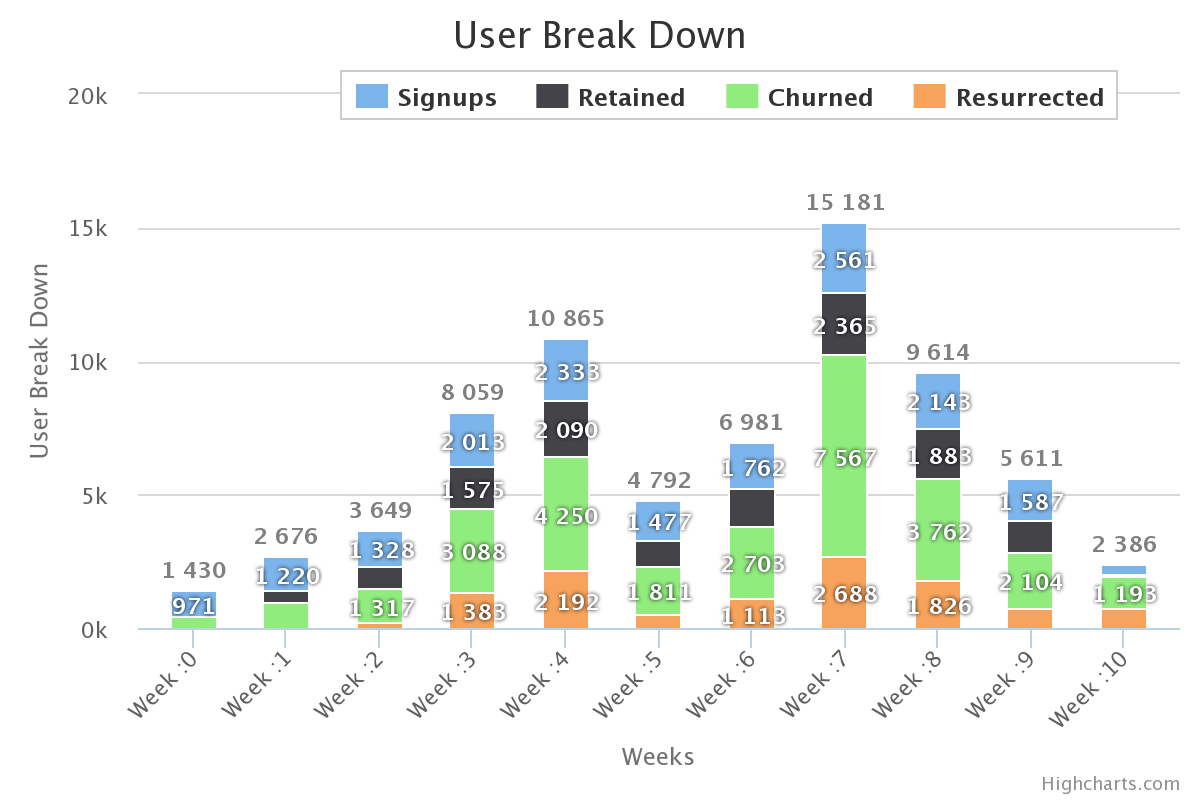
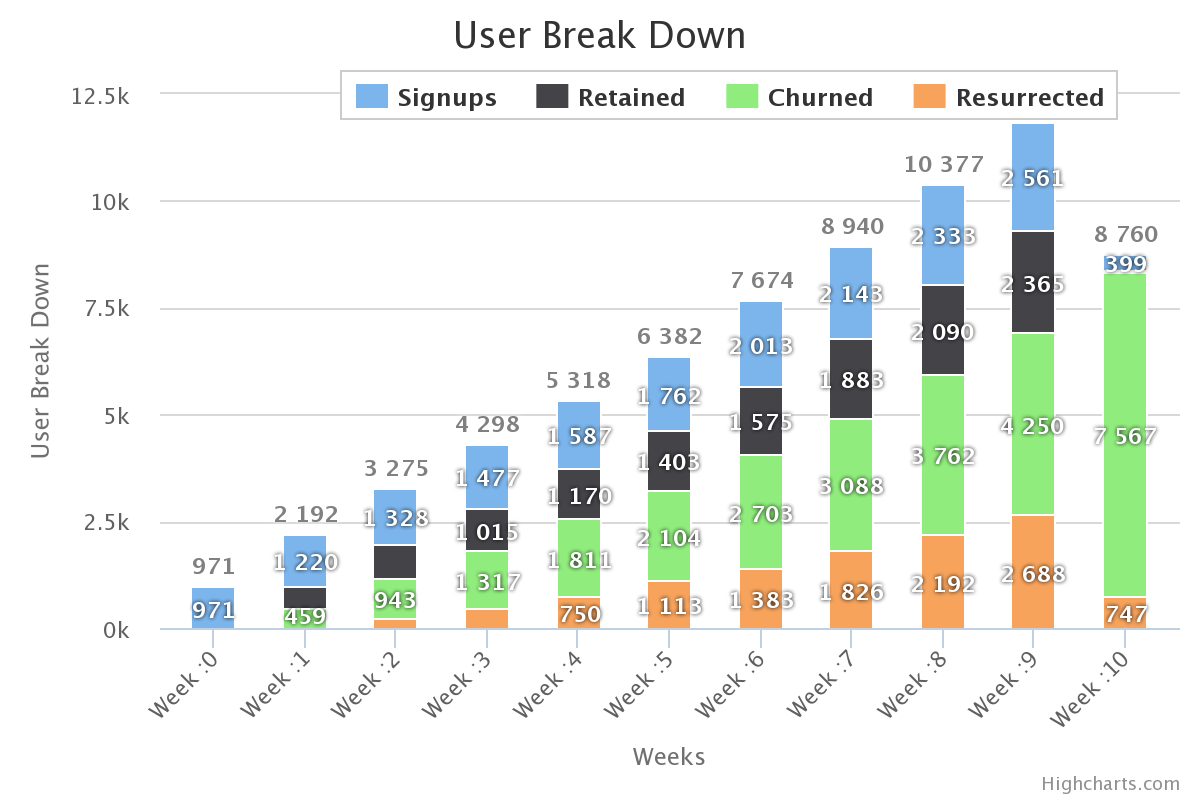
new query

diff --git a/WEB-INF/js/GraphViews.js b/WEB-INF/js/GraphViews.js
@@ -13,6 +13,11 @@ function createPerWeekGraph(data) {
 		title: {
 			text: 'Rate of New Signups per week'
 		},
+		tooltip: {
+					formatter: function () {
+						return 'Rate of New Signup for Week <b>' + this.x + '</b> is <b>' + this.y + '</b>';
+					}
+		},
 		xAxis: {
 			title: {
 				text: 'Weeks'
@@ -150,7 +155,6 @@ function createRetentionUserRateGraph(data) {
 
 function createStackedUpGraph(data) {
 	var signups = [], retained = [], resurrected = [], churned = [];
-	var category = ['signups', 'retained', 'resurrected', 'churned'];
 
 	for (key in data) {
 		if (data.hasOwnProperty(key)) {

diff --git a/GraphData.php b/GraphData.php
@@ -11,7 +11,7 @@ $databasetableUserBreakDown = "userbreakdown";
 
 
 $databaseusername="root";
-$databasepassword = "";
+$databasepassword = "ssju3663148";
 $fieldseparator = ",";
 $lineseparator = "\n";
 $csvfile = "csv/events2.csv";
@@ -179,10 +179,11 @@ $query4 = "SELECT
            a.wk AS wk,
            (SELECT sum(x.signup) from userbreakdown AS x WHERE x.wk = a.wk) AS signups,
            (SELECT sum(x.retained) from userbreakdown AS x WHERE x.wk = a.wk) AS retained,
-           (SELECT sum(x.willchurn) from userbreakdown AS x WHERE x.wk = a.wk) AS churned,
+           IFNULL((SELECT sum(x.willchurn) from userbreakdown AS x WHERE x.wk = a.wk-1),0) AS churned,
            (SELECT sum(x.resurrected) from userbreakdown AS x WHERE x.wk = a.wk) AS resurrected
            FROM
-           (SELECT DISTINCT wk from userbreakdown) AS a";
+           (SELECT DISTINCT wk from userbreakdown) AS a
+           ORDER BY 1";
 $graph4Data = $pdo -> query($query4);
 $graph4rows = array();
 while($r = $graph4Data -> fetch(PDO::FETCH_ASSOC)) {
